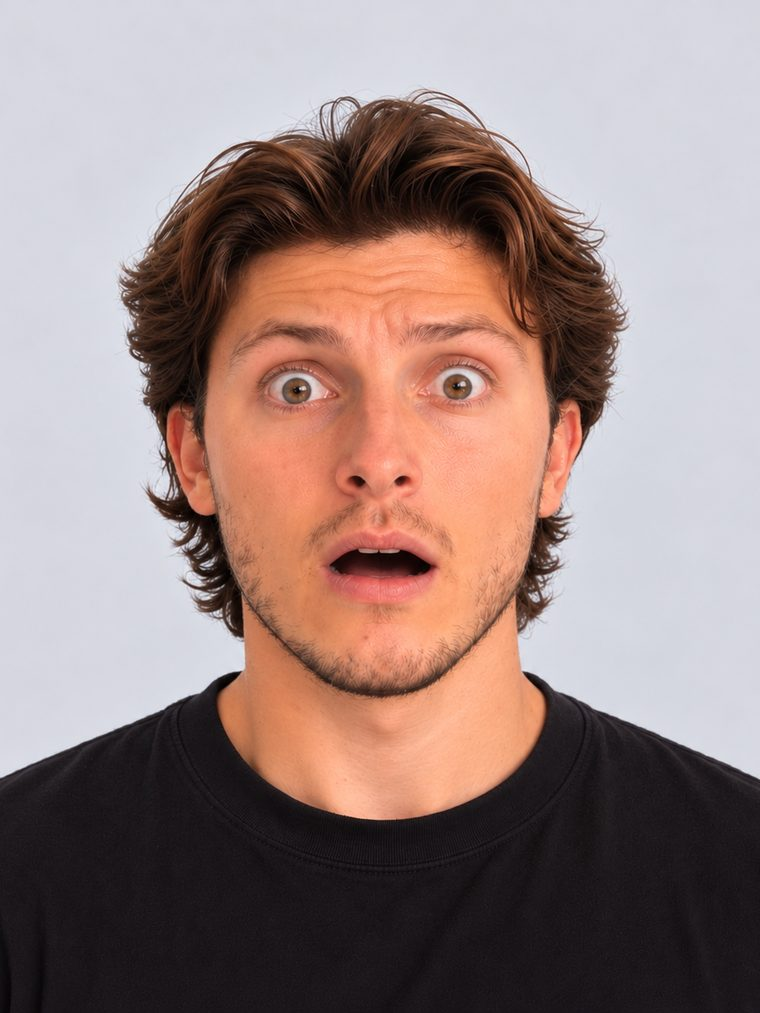
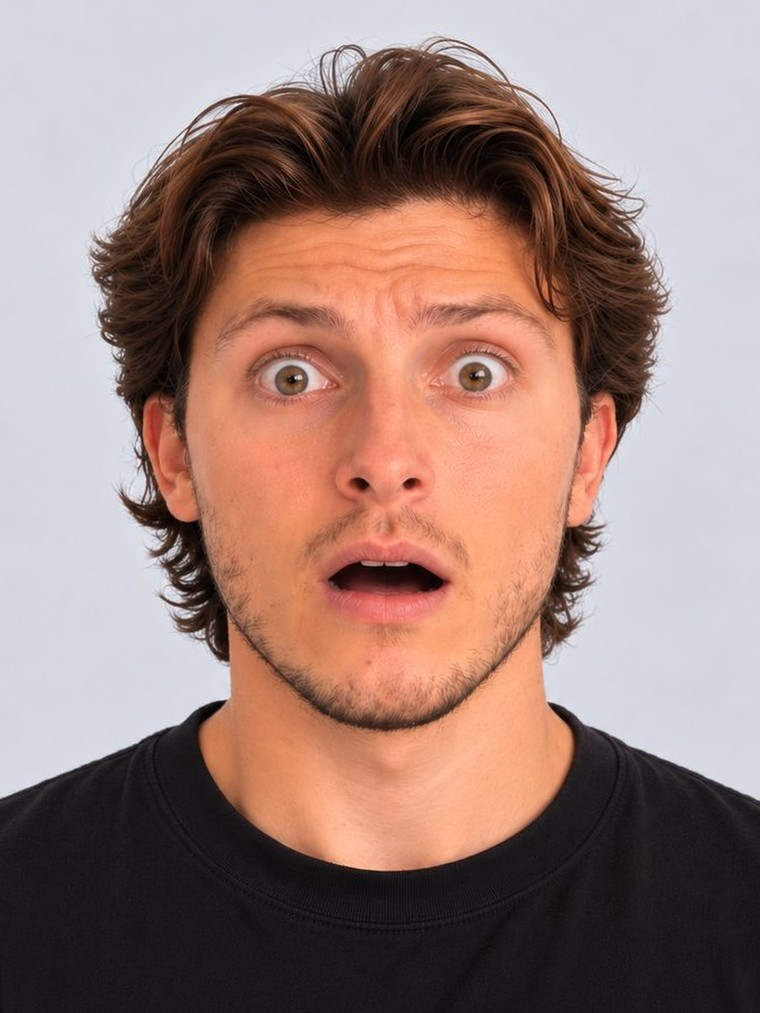
Comment ca marche : retire les etiquettes cliquables, cadrage identique sur les 4 photos
David a demande (apres coup) de retirer l'interaction et de miser sur
l'animation elle-meme ("wow"), et que le visage soit exactement a la
meme taille/position sur les 4 photos (seule l'expression doit changer).

- Retire les 4 boutons cliquables (Normal/Question/Peur/Surprise) et le
  code JS associe : le diaporama est maintenant purement automatique.
- Le fondu enchaine desormais avec un leger zoom (scale 1.05 -> 1) sur
  1.6s en plus de l'opacite, pour un effet plus vivant qu'un simple
  fondu plat. Respecte toujours prefers-reduced-motion (fondu instant,
  sans zoom, sans defilement auto).
- Realigne les 4 photos par detection des yeux (OpenCV, Haar cascades) :
  meme position et meme distance inter-yeux sur les 4, donc le cadrage
  visuel est identique et seule l'expression bouge pendant le fondu.

Verifie : syntaxe de tous les <script>/<style>, plus aucun residu des
boutons retires (exprChips/expr-chip/chipEls), alignement verifie a
l'oeil sur les 4 photos avant envoi.

Claude-Session: https://claude.ai/code/session_01K4SX7uWC2KoJV94aQ1CVBx

Changed region(s): [[0.0, 0.0306, 1.0, 0.8875]]

diff --git a/index.html b/index.html
@@ -1410,7 +1410,7 @@
 <article class="mode-card voice-card"><div class="mode-top"><span class="mode-icon">≋</span><span>FRANÇAIS → SIGNES</span><span>02</span></div><h3>Je parle.</h3><p>Votre voix, les signes disponibles à l’écran.</p><div class="mode-actions"><button class="new-button secondary" id="speechModeBtn" type="button">Activer le microphone <span aria-hidden="true">↗</span></button><span class="mode-note" id="speechAuthNote">Autorisez le micro lorsque le navigateur le demande.</span></div></article></div>
 <p class="prototype-note">Prototype · Signes disponibles uniquement, vidéos jouées mot à mot.</p></section>
 
-<section class="wrap how-section" id="comment"><div data-reveal><p class="eyebrow">03 / COMMENT ÇA MARCHE</p><h2>Pas juste des mots mis bout à bout.</h2><p class="how-intro">Sensorielle n’affiche pas un signe par mot prononcé. La phrase est comprise, reformulée si besoin, puis signée — avec une expression qui suit le ton.</p><div class="step-list"><article><span>01</span><div><h3>On vous écoute en direct</h3><p>La parole est transcrite au fur et à mesure, mot par mot, sans attendre la fin de la phrase.</p></div></article><article><span>02</span><div><h3>Une IA choisit les mots</h3><p>Si la phrase ne se traduit pas mot à mot en signes, une IA la reformule pour trouver ce qui se rapproche le plus d’une vraie formulation en LSQ.</p></div></article><article><span>03</span><div><h3>Le visage s’ajuste au ton</h3><p>Une question, une négation, une exclamation : l’expression du signeur s’ajuste légèrement pour porter l’intention, pas seulement les mains.</p></div></article></div></div><div class="face-diagram" data-reveal><div class="face-stage expr-stage" id="exprStage"><img class="face-video expr-photo is-active" id="exprPhoto0" src="media/expressions/normal.jpg" alt="David, visage neutre"><img class="face-video expr-photo" id="exprPhoto1" src="media/expressions/question.jpg" alt="David, expression de question"><img class="face-video expr-photo" id="exprPhoto2" src="media/expressions/peur.jpg" alt="David, expression d’appréhension"><img class="face-video expr-photo" id="exprPhoto3" src="media/expressions/surprise.jpg" alt="David, expression de surprise"><span class="face-tag" id="exprTag">NORMAL</span></div><div class="expr-chips" id="exprChips" role="group" aria-label="Choisir une expression"><button type="button" class="expr-chip is-active" data-expr="0">Normal</button><button type="button" class="expr-chip" data-expr="1">Question</button><button type="button" class="expr-chip" data-expr="2">Peur</button><button type="button" class="expr-chip" data-expr="3">Surprise</button></div><p class="face-caption">4 vraies photos, aucune vidéo truquée — Sensorielle ajuste l’expression du signeur selon le ton de la phrase : neutre, question, appréhension, surprise.</p></div></section>
+<section class="wrap how-section" id="comment"><div data-reveal><p class="eyebrow">03 / COMMENT ÇA MARCHE</p><h2>Pas juste des mots mis bout à bout.</h2><p class="how-intro">Sensorielle n’affiche pas un signe par mot prononcé. La phrase est comprise, reformulée si besoin, puis signée — avec une expression qui suit le ton.</p><div class="step-list"><article><span>01</span><div><h3>On vous écoute en direct</h3><p>La parole est transcrite au fur et à mesure, mot par mot, sans attendre la fin de la phrase.</p></div></article><article><span>02</span><div><h3>Une IA choisit les mots</h3><p>Si la phrase ne se traduit pas mot à mot en signes, une IA la reformule pour trouver ce qui se rapproche le plus d’une vraie formulation en LSQ.</p></div></article><article><span>03</span><div><h3>Le visage s’ajuste au ton</h3><p>Une question, une négation, une exclamation : l’expression du signeur s’ajuste légèrement pour porter l’intention, pas seulement les mains.</p></div></article></div></div><div class="face-diagram" data-reveal><div class="face-stage expr-stage" id="exprStage"><img class="face-video expr-photo is-active" id="exprPhoto0" src="media/expressions/normal.jpg" alt="David, visage neutre"><img class="face-video expr-photo" id="exprPhoto1" src="media/expressions/question.jpg" alt="David, expression de question"><img class="face-video expr-photo" id="exprPhoto2" src="media/expressions/peur.jpg" alt="David, expression d’appréhension"><img class="face-video expr-photo" id="exprPhoto3" src="media/expressions/surprise.jpg" alt="David, expression de surprise"><span class="face-tag" id="exprTag">NORMAL</span></div><p class="face-caption">4 vraies photos, aucune vidéo truquée — Sensorielle ajuste l’expression du signeur selon le ton de la phrase : neutre, question, appréhension, surprise.</p></div></section>
 <section class="wrap how-section dictionary-section" id="dictionnaire"><div data-reveal><p class="eyebrow">04 / DICTIONNAIRE</p><h2>Cherchez un mot.<br>Voyez son signe.</h2><p class="how-intro">225 signes déjà filmés. Tapez un mot pour le trouver — sa vidéo s’affiche tout de suite, juste à côté.</p><label class="visually-hidden" for="dictInput">Chercher un mot dans le dictionnaire</label><div class="dict-search"><svg class="dict-search-icon" viewBox="0 0 24 24" fill="none" aria-hidden="true"><circle cx="10.5" cy="10.5" r="6.5" stroke="currentColor" stroke-width="1.7"></circle><path d="M20 20l-4.3-4.3" stroke="currentColor" stroke-width="1.7" stroke-linecap="round"></path></svg><input type="text" id="dictInput" placeholder="bleu, famille, école…" autocomplete="off"></div><p class="dict-hint" id="dictHint">Quelques mots pour commencer :</p><div class="dict-results" id="dictResults" aria-live="polite"></div></div><div class="face-diagram" data-reveal><div class="face-stage"><video class="face-video" id="dictVideo" muted playsinline loop preload="none" hidden></video><div class="face-stage-empty" id="dictEmptyState"><svg viewBox="0 0 24 24" fill="none" aria-hidden="true"><circle cx="10.5" cy="10.5" r="6.5" stroke="currentColor" stroke-width="1.7"></circle><path d="M20 20l-4.3-4.3" stroke="currentColor" stroke-width="1.7" stroke-linecap="round"></path></svg><span>Un mot à gauche,<br>son signe ici</span></div><span class="face-tag" id="dictTag" hidden></span></div><p class="face-caption" id="dictCaption">Écrivez un mot à gauche pour voir sa vidéo ici.</p></div></section>
 <script>
   (function(){
@@ -1488,19 +1488,22 @@
 <script>
   (function(){
     // 2026-10-21 (demande de David) : remplace la video "Famille Ici
-    // Content" par un diaporama des 4 VRAIES photos qu'il a generees
+    // Content" par une animation des 4 VRAIES photos qu'il a generees
     // (normal, questionnant, appeure, surprise) -- illustre directement
-    // l'etape 03 du texte ci-contre ("le visage s'ajuste au ton").
-    // Diaporama automatique + etiquettes cliquables (choix explicite de
-    // David parmi plusieurs options). Un fondu (opacity, voir CSS
-    // .expr-photo) est ici volontairement utilise -- contrairement a la
-    // video "Je parle" ou un fondu est evite (il melangerait deux SIGNES
-    // differents en plein mouvement) : ici ce sont des photos fixes, le
-    // fondu ne fait que comparer deux poses, jamais deux gestes.
+    // l'etape 03 du texte ci-contre ("le visage s'ajuste au ton"). Les 4
+    // photos sont pre-alignees (meme position/taille du visage, voir
+    // JOURNAL.md) pour que seule l'expression change visuellement d'une
+    // photo a l'autre.
+    // Version 2 (meme jour) : purement automatique, AUCUNE interaction --
+    // David a explicitement demande de retirer les etiquettes cliquables
+    // et de miser sur l'animation elle-meme ("wow"). Le fondu enchaine
+    // avec un leger zoom (voir .expr-photo/.is-active en CSS) pour un
+    // effet plus vivant qu'un simple fondu plat. Un fondu reste utilise
+    // ici (contrairement a "Je parle") car ce sont des photos fixes : il
+    // ne fait que comparer deux poses, jamais deux signes en mouvement.
     var stage = document.getElementById("exprStage");
-    var chips = document.getElementById("exprChips");
     var tag = document.getElementById("exprTag");
-    if (!stage || !chips || !tag) return;
+    if (!stage || !tag) return;
     var items = [
       { label: "Normal" },
       { label: "Question" },
@@ -1508,40 +1511,20 @@
       { label: "Surprise" }
     ];
     var photos = items.map(function(it, i){ return document.getElementById("exprPhoto" + i); });
-    var chipEls = Array.prototype.slice.call(chips.querySelectorAll(".expr-chip"));
     var cur = 0;
-    var timer = null;
-    var AUTO_MS = 2600;
+    var AUTO_MS = 2800;
     var reduceMotion = window.matchMedia && window.matchMedia("(prefers-reduced-motion: reduce)").matches;
 
     function show(idx){
       cur = idx;
       photos.forEach(function(p, i){ if (p) p.classList.toggle("is-active", i === idx); });
-      chipEls.forEach(function(c, i){ c.classList.toggle("is-active", i === idx); c.setAttribute("aria-pressed", String(i === idx)); });
       tag.textContent = items[idx].label.toUpperCase();
     }
 
     function next(){ show((cur + 1) % items.length); }
 
-    function startAuto(){
-      if (reduceMotion) return;
-      stopAuto();
-      timer = setInterval(next, AUTO_MS);
-    }
-    function stopAuto(){
-      if (timer) { clearInterval(timer); timer = null; }
-    }
-
-    chipEls.forEach(function(c){
-      c.addEventListener("click", function(){
-        var idx = parseInt(c.getAttribute("data-expr"), 10);
-        show(idx);
-        startAuto(); // un clic choisit une expression mais le diaporama continue ensuite
-      });
-    });
-
     show(0);
-    startAuto();
+    if (!reduceMotion) setInterval(next, AUTO_MS);
   })();
 </script>
 
@@ -6073,15 +6056,9 @@ if(matchMedia('(hover: hover) and (pointer: fine)').matches){hero.addEventListen
 .face-stage-empty svg{width:30px;height:30px;color:#b8a9ff;flex-shrink:0}
 .face-stage-empty span{font-size:12px;line-height:1.5;font-weight:600;color:#716d91}
 .face-stage-empty[hidden]{display:none}
-.expr-stage .expr-photo{opacity:0;transition:opacity .5s ease;will-change:opacity}
-.expr-stage .expr-photo.is-active{opacity:1}
-@media(prefers-reduced-motion:reduce){.expr-stage .expr-photo{transition:none}}
-.expr-chips{display:flex;flex-wrap:wrap;justify-content:center;gap:8px;margin-top:2px}
-.expr-chips .expr-chip{appearance:none;border:1px solid var(--s-line);background:var(--s-surface);color:#797d8f;font-size:12px;font-weight:700;letter-spacing:.01em;padding:7px 14px;border-radius:999px;cursor:pointer;transition:background .15s ease,color .15s ease,border-color .15s ease,transform .15s ease}
-.expr-chips .expr-chip:hover{border-color:#b8a9ff;color:#564fb8}
-.expr-chips .expr-chip:active{transform:scale(.96)}
-.expr-chips .expr-chip.is-active{background:var(--s-gradient);border-color:transparent;color:#fff}
-.expr-chips .expr-chip:focus-visible{outline:2px solid #7c4dff;outline-offset:2px}
+.expr-stage .expr-photo{opacity:0;transform:scale(1.05);transition:opacity 1.1s ease,transform 1.6s cubic-bezier(.19,1,.22,1);will-change:opacity,transform}
+.expr-stage .expr-photo.is-active{opacity:1;transform:scale(1)}
+@media(prefers-reduced-motion:reduce){.expr-stage .expr-photo{transition:opacity .2s linear;transform:none}}
 </style>
 
 <div id="sensoAuthOverlay" role="dialog" aria-modal="true" aria-labelledby="sensoAuthTitle">
